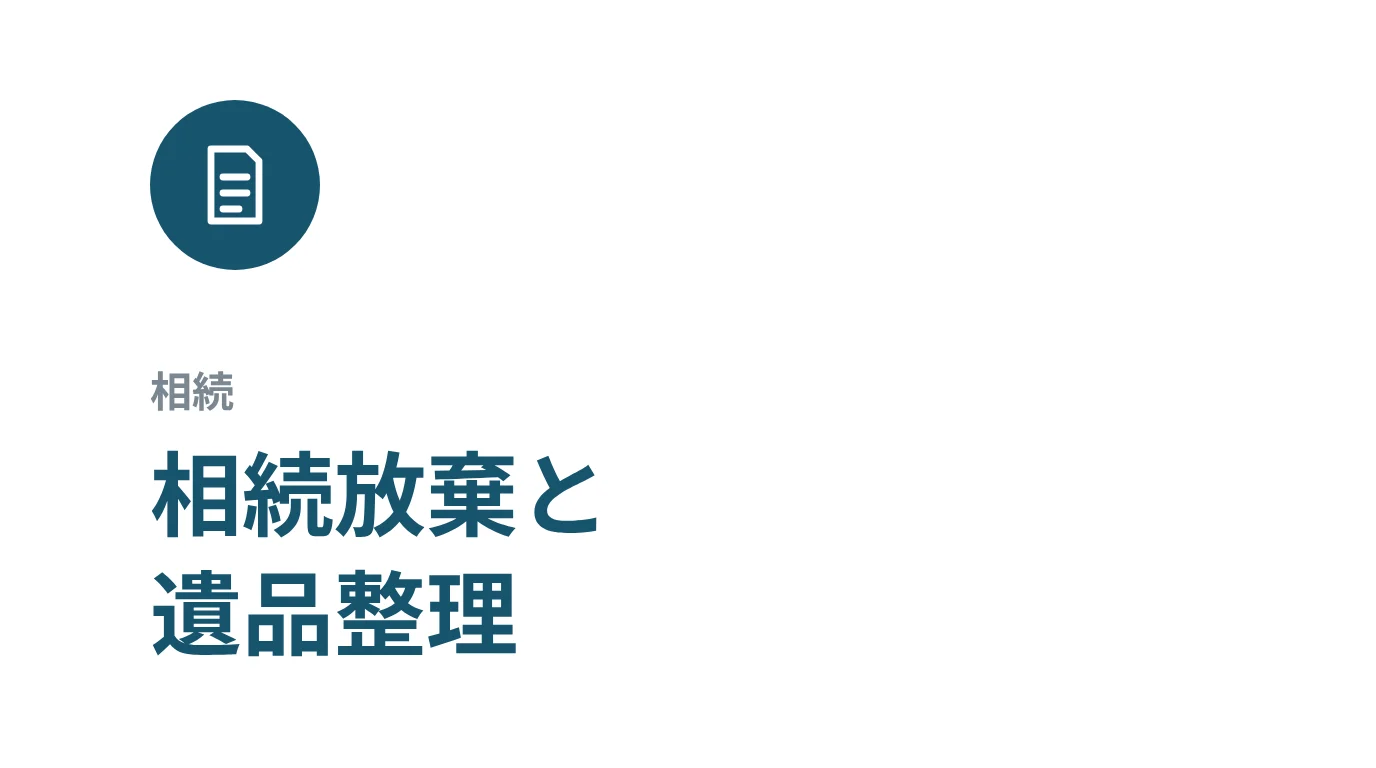
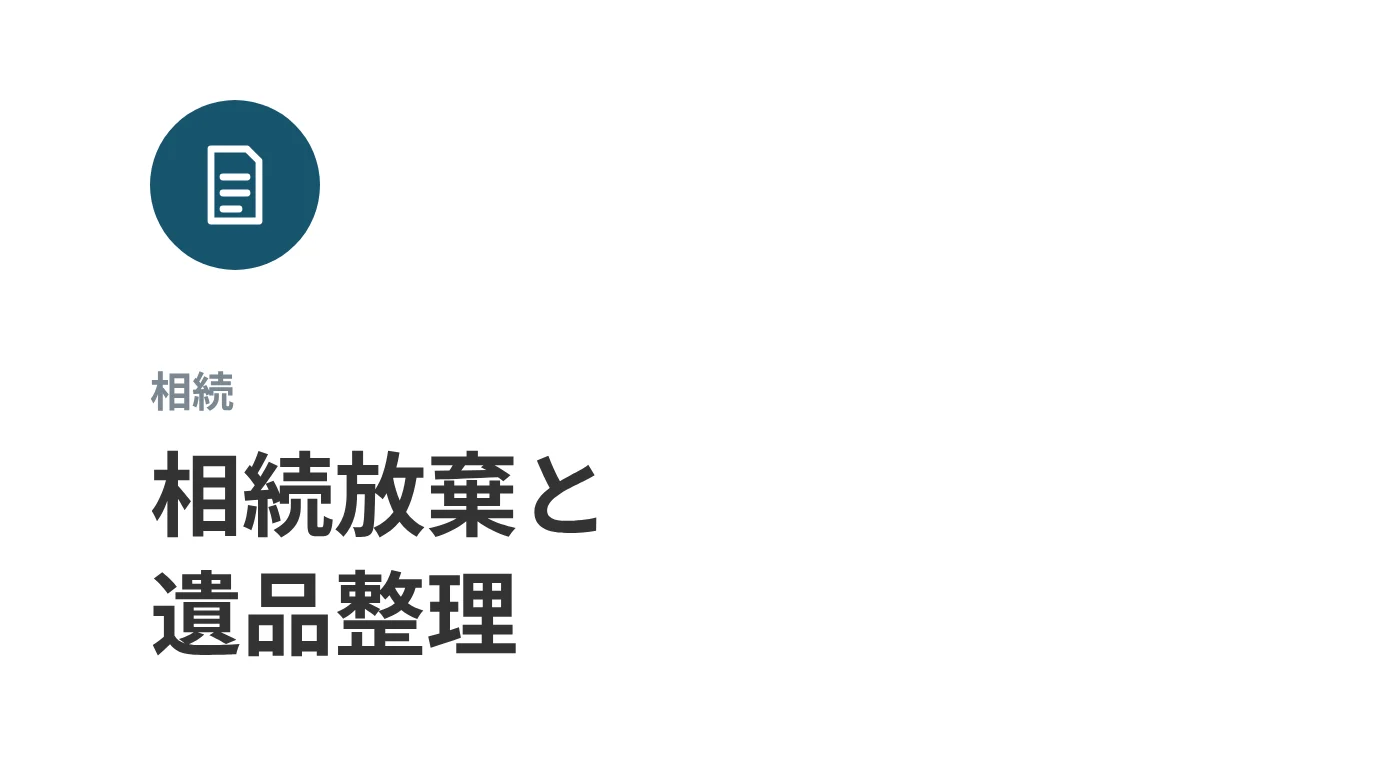
アイキャッチ: 不用品回収のアイコンをコーラル#DE7A6Cに、見出し文字を#333に
Claude-Session: https://claude.ai/code/session_01LRyDkTUJJefFDPtA3w7j2w

Changed region(s): [[0.0938, 0.5938, 0.4375, 0.875]]

diff --git a/scripts/make-thumbs.py b/scripts/make-thumbs.py
@@ -7,7 +7,7 @@ from playwright.sync_api import sync_playwright
 from PIL import Image
 
 COLORS = {'お悩み解決':'#17546E','料金相場':'#8A5A2B','生前整理':'#6B4E8A','実家じまい':'#17546E',
-          '相続':'#17546E','賃貸':'#3E6B48','不用品回収':'#4A5A68','生活':'#2F6F8F','手続き':'#6B4E8A'}
+          '相続':'#17546E','賃貸':'#3E6B48','不用品回収':'#DE7A6C','生活':'#2F6F8F','手続き':'#6B4E8A'}
 ICONS = {
  'お悩み解決':'<path d="M12 3l7 3v5c0 5-3.5 8.5-7 10-3.5-1.5-7-5-7-10V6z"/><path d="M8.5 12l2.5 2.5 4.5-5"/>',
  '料金相場':'<circle cx="12" cy="12" r="8.5"/><path d="M9 8l3 4 3-4M12 12v6M9 13.5h6M9 16h6"/>',
@@ -24,7 +24,7 @@ HTML = """<html><body style="margin:0"><div style="width:1376px;height:768px;bac
 <svg width="96" height="96" viewBox="0 0 24 24" fill="none" stroke="#fff" stroke-width="1.7" stroke-linecap="round" stroke-linejoin="round">{ic}</svg></div>
 <div style="position:absolute;left:150px;bottom:100px">
 <div style="font-size:42px;color:#7A8791;font-weight:700;margin-bottom:10px">{cat}</div>
-<div style="font-size:92px;font-weight:700;line-height:1.3;color:#17546E">{l1}<br>{l2}</div></div></div></body></html>"""
+<div style="font-size:92px;font-weight:700;line-height:1.3;color:#333">{l1}<br>{l2}</div></div></div></body></html>"""
 
 pages = json.load(open('src/data/pages.json'))
 with sync_playwright() as p:
